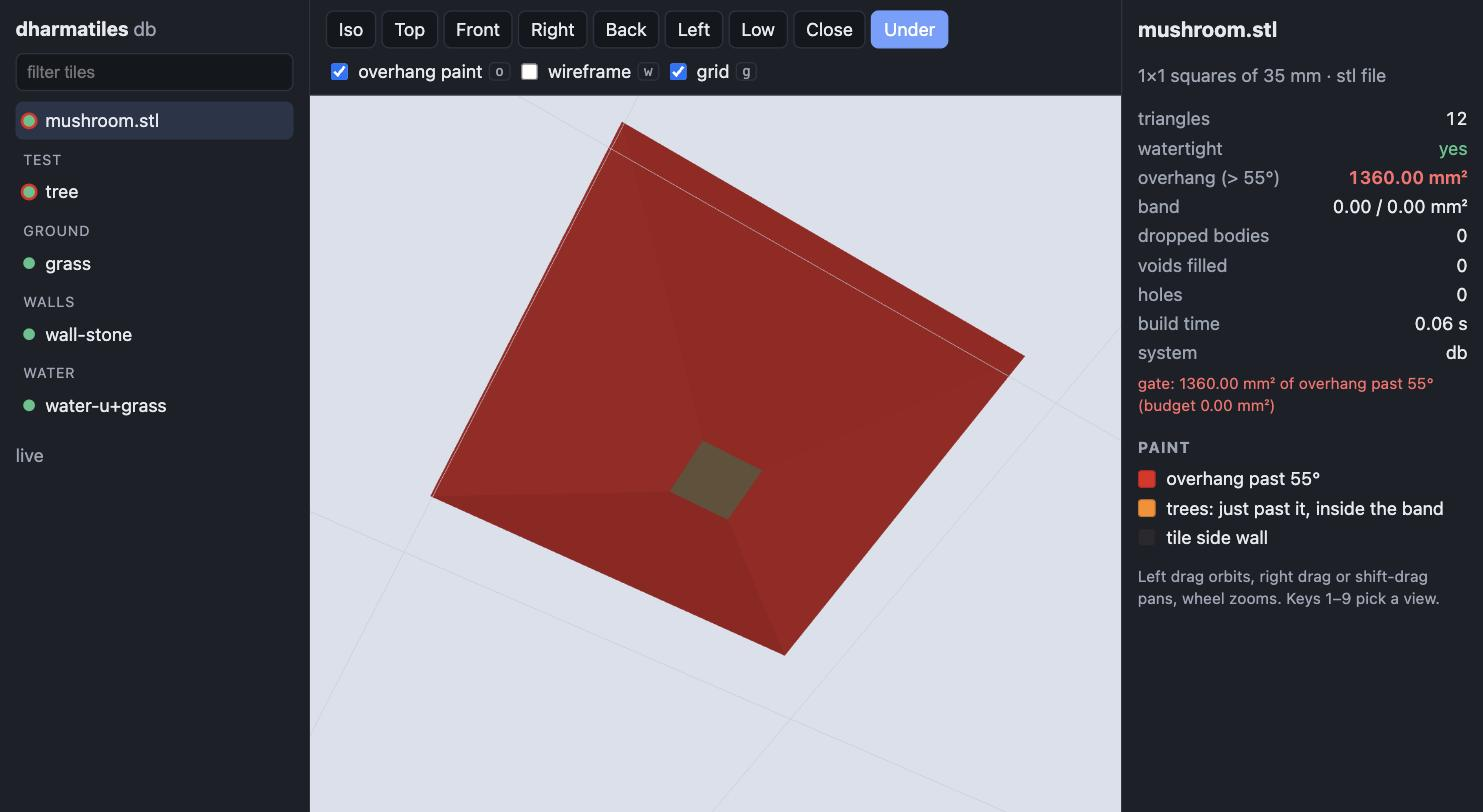
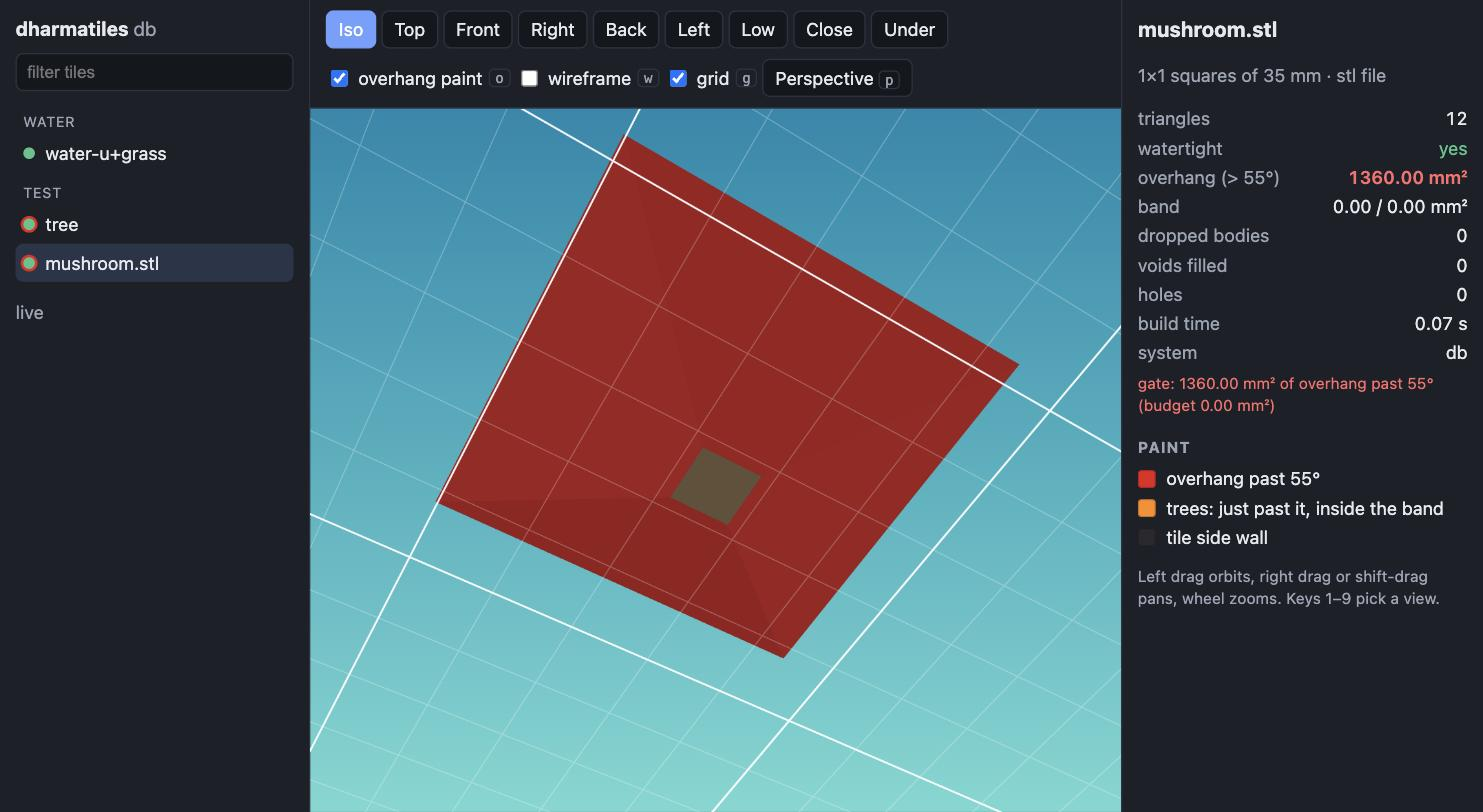
preview: sky background, white fading grid at the tile datum (z=0)

diff --git a/web/preview/js/viewer.js b/web/preview/js/viewer.js
@@ -23,6 +23,26 @@ export const VIEWS = [
 ];
 
 const FOV = 40;
+const GRID_BELOW_MM = 0.02;
+// white lines on the sky: bold at each square, fine at a fifth of one, faded with distance
+const GRID_FRAG = `
+uniform float uSq; uniform vec2 uCentre; uniform float uR0; uniform float uR1;
+varying vec2 vXY;
+float line(float v, float px, float w) {
+  float d = abs(fract(v - 0.5) - 0.5) / px; // distance to the nearest line, in pixels
+  return 1.0 - smoothstep(w - 0.5, w + 0.5, d);
+}
+void main() {
+  vec2 g = vXY / uSq;
+  vec2 px = max(fwidth(g), vec2(1e-5));
+  float major = max(line(g.x, px.x, 1.1), line(g.y, px.y, 1.1));
+  vec2 f = g * 5.0;
+  float minor = max(line(f.x, px.x * 5.0, 0.6), line(f.y, px.y * 5.0, 0.6));
+  float fade = 1.0 - smoothstep(uR0, uR1, distance(vXY, uCentre));
+  float a = max(major * 0.95, minor * 0.28) * fade;
+  if (a < 0.01) discard;
+  gl_FragColor = vec4(1.0, 1.0, 1.0, a);
+}`;
 const NARROW_FOV = 3; // the near-orthographic end of the projection tween
 const easeInOutCubic = (u) => (u < 0.5 ? 4 * u * u * u : 1 - Math.pow(-2 * u + 2, 3) / 2);
 const reduceMotion = () => {
@@ -57,8 +77,8 @@ void main() {
 export class Viewer {
   constructor(canvas) {
     this.canvas = canvas;
-    this.renderer = new THREE.WebGLRenderer({ canvas, antialias: true, preserveDrawingBuffer: true });
-    this.renderer.setClearColor(new THREE.Color(0.85, 0.88, 0.92));
+    this.renderer = new THREE.WebGLRenderer({ canvas, antialias: true, alpha: true, preserveDrawingBuffer: true });
+    this.renderer.setClearColor(0x000000, 0); // the sky is the page's gradient behind the canvas
     this.scene = new THREE.Scene();
     this.persp = new THREE.PerspectiveCamera(FOV, 1, 1, 1000);
     this.ortho = new THREE.OrthographicCamera(-1, 1, 1, -1, 1, 1000);
@@ -291,21 +311,35 @@ export class Viewer {
     return null;
   }
 
-  /** A ground plane under the tile, ruled at the square size (35 mm DungeonBlocks, 25.4 OpenLOCK). */
+  /**
+   * The ground grid, ruled at the square size (35 mm DungeonBlocks, 25.4
+   * OpenLOCK): white lines, bold at every square and fine in between, a
+   * plane at the tile's datum (z = 0, where the base meets the tile body;
+   * an STL has none, so its lowest point) that fades out toward the
+   * horizon.  It is drawn after the tile, without writing depth, a hair
+   * below the datum so it never fights the tile's flat underside.
+   */
   buildGrid() {
-    if (this.grid) { this.scene.remove(this.grid); this.grid.geometry.dispose(); this.grid = null; }
+    if (this.grid) { this.scene.remove(this.grid); this.grid.geometry.dispose(); this.grid.material.dispose(); this.grid = null; }
     const b = this.bounds();
     const sq = this.plan?.square_mm;
     if (!b || !sq) return;
-    const [cols, rows] = [this.plan.cols, this.plan.rows];
-    const z = b.lo[2];
-    const pts = [];
-    const m = 1; // squares of margin
-    for (let i = -m; i <= cols + m; i++) pts.push(i * sq, -m * sq, z, i * sq, (rows + m) * sq, z);
-    for (let j = -m; j <= rows + m; j++) pts.push(-m * sq, j * sq, z, (cols + m) * sq, j * sq, z);
-    const g = new THREE.BufferGeometry();
-    g.setAttribute('position', new THREE.Float32BufferAttribute(pts, 3));
-    this.grid = new THREE.LineSegments(g, new THREE.LineBasicMaterial({ color: new THREE.Color(0.55, 0.6, 0.68) }));
+    const [w, h] = this.plan.size_mm;
+    const z = (this.plan.datum_z ?? b.lo[2]) - GRID_BELOW_MM;
+    const reach = Math.max(w, h) * 6;
+    const mat = new THREE.ShaderMaterial({
+      uniforms: {
+        uSq: { value: sq }, uCentre: { value: new THREE.Vector2(w / 2, h / 2) },
+        uR0: { value: Math.max(w, h) * 1.2 }, uR1: { value: reach * 0.5 },
+      },
+      vertexShader: 'varying vec2 vXY; void main() { vec4 w = modelMatrix * vec4(position, 1.0); vXY = w.xy; gl_Position = projectionMatrix * viewMatrix * w; }',
+      fragmentShader: GRID_FRAG,
+      transparent: true, depthWrite: false, side: THREE.DoubleSide,
+    });
+    this.grid = new THREE.Mesh(new THREE.PlaneGeometry(reach, reach), mat);
+    this.grid.position.set(w / 2, h / 2, z);
+    this.grid.renderOrder = 1;
+    this.grid.frustumCulled = false;
     this.grid.visible = this.showGrid;
     this.scene.add(this.grid);
   }

diff --git a/docs/rust/preview.html b/docs/rust/preview.html
@@ -34,10 +34,12 @@ dharmatiles preview slicer-export.stl             # any binary STL, through the 
 <li><b>Views</b> (keys 1&ndash;9): Iso, Top, Front, Right, Back, Left, Low (to inspect undersides), Close and Under, the contact sheet's views plus the elevations. Orbit with the left button, pan with the right button or shift, zoom with the wheel.</li>
 <li><b>Views turn, they do not cut.</b> Picking a view (1&ndash;9) orbits the camera there in 0.6 to 0.9 s with ease-in-out, along a great circle round the tile, so it reads as the tile turning in space (the longer the turn, the longer it takes). Up stays up through Top and Under. Switching between perspective and orthographic is a dolly-zoom: the lens narrows while the camera backs away, so the tile keeps its size as it flattens. Grab the tile (drag, wheel or touch) at any moment and the animation stops and the controls are yours; picking another view mid-turn starts from where the camera is. With &ldquo;reduce motion&rdquo; set in your system, views cut instantly.</li>
 <li><b>Perspective or orthographic</b> (<kbd>p</kbd>, or the button beside the toggles). Switching keeps the view: the same target, direction and apparent size (the orthographic frustum is taken from the perspective camera's distance and field of view, so the tile does not jump). In orthographic mode the wheel zooms the view, not the distance, and the presets work as before. The choice is remembered in the browser across tiles, rebuilds and reloads.</li>
-<li><b>Toggles:</b> overhang paint (<kbd>o</kbd>), wireframe (<kbd>w</kbd>) and the ground grid (<kbd>g</kbd>), ruled at the square size (35 mm, or 25.4 mm for OpenLOCK).</li>
+<li><b>Toggles:</b> overhang paint (<kbd>o</kbd>), wireframe (<kbd>w</kbd>) and the ground grid (<kbd>g</kbd>).</li>
+<li><b>Sky and grid.</b> The tile stands in a turquoise sky that is deeper at the top and lighter toward the horizon. The ground grid is white, ruled at the square size (35 mm, or 25.4 mm for OpenLOCK), bold at every square and fine in between, and it fades into the sky toward the horizon. It lies at the tile's zero height, <code>z = 0</code>, where the base meets the tile body (for an STL, which has no datum, at the mesh's lowest point), so the base shows below it; it is drawn after the tile without writing depth, so it never fights the tile's flat underside. The PNG renders keep their light grey background.</li>
 <li><b>Build record</b> beside the view: triangles, watertight, overhang mm&sup2;, band against its budget, dropped bodies, voids filled, holes, build time, seed, and any gate failure.</li>
 <li><b>Tile list</b> on the left, with a dot for each tile: grey (not built), amber (building), green (ready), red (failed). A red ring means overhang or band area.</li>
 </ul>
+<figure class="shot"><img src="preview-shots/sky-low.jpg" alt="A water tile from the Low view over the white grid"><figcaption class="small muted">The Low view: the grid sits where the base meets the tile body.</figcaption></figure>
 <figure class="shot"><img src="preview-shots/grass-tree-2x2.jpg" alt="The 2x2 grass and tree tile in the viewer"><figcaption class="small muted">The 2&times;2 grass-and-tree library tile (1.55 million triangles).</figcaption></figure>
 <figure class="shot"><img src="preview-shots/tree.jpg" alt="A tree tile from a low view"><figcaption class="small muted">The tree test tile from the Low view, with its build record.</figcaption></figure>
 

diff --git a/web/preview/style.css b/web/preview/style.css
@@ -1,7 +1,7 @@
 :root {
   --bg: #f3f4f6; --panel: #ffffff; --ink: #1d2330; --muted: #667085; --line: #d9dde5;
   --accent: #2f6fdb; --ok: #2e8b57; --warn: #d98a00; --bad: #d12d2d;
-  --canvas: #d9e0eb;
+  --sky-top: #0788ad; --sky-low: #6fd8d2;
 }
 @media (prefers-color-scheme: dark) {
   :root:not([data-theme="light"]) {
@@ -41,7 +41,7 @@ button.view:hover { border-color: var(--accent); }
 button.view.on { background: var(--accent); color: #fff; border-color: var(--accent); }
 .toggle { display: inline-flex; gap: 5px; align-items: center; cursor: pointer; user-select: none; }
 kbd { font: 11px ui-monospace, monospace; border: 1px solid var(--line); border-radius: 4px; padding: 0 4px; color: var(--muted); }
-#canvas-wrap { position: relative; flex: 1; min-height: 0; background: var(--canvas); }
+#canvas-wrap { position: relative; flex: 1; min-height: 0; background: linear-gradient(to bottom, var(--sky-top), var(--sky-low)); }
 #canvas { position: absolute; inset: 0; width: 100%; height: 100%; display: block; }
 #status { position: absolute; top: 10px; left: 10px; background: var(--panel); color: var(--ink); border: 1px solid var(--line); border-radius: 999px; padding: 4px 12px; box-shadow: 0 1px 4px #0002; }
 #status { display: flex; align-items: center; gap: 10px; border-radius: 10px; min-width: 260px; }
@@ -52,7 +52,7 @@ kbd { font: 11px ui-monospace, monospace; border: 1px solid var(--line); border-
 #errors .e { margin: 0 0 8px; } #errors .e:last-child { margin: 0; }
 #errors .where { font: 12px ui-monospace, monospace; color: var(--bad); }
 #errors .help { color: var(--muted); font-size: 12px; }
-#empty { position: absolute; inset: 0; display: grid; place-items: center; color: var(--muted); pointer-events: none; }
+#empty { position: absolute; inset: 0; display: grid; place-items: center; color: #fff; text-shadow: 0 1px 3px #0006; pointer-events: none; }
 dl { display: grid; grid-template-columns: auto 1fr; gap: 3px 12px; margin: 10px 0 0; }
 dt { color: var(--muted); } dd { margin: 0; text-align: right; font-variant-numeric: tabular-nums; }
 dd.bad { color: var(--bad); font-weight: 600; } dd.ok { color: var(--ok); }

diff --git a/crates/dharmatiles/src/preview/mod.rs b/crates/dharmatiles/src/preview/mod.rs
@@ -261,6 +261,8 @@ fn rebuild(shared: &Arc<Shared>, i: usize, opts: &Options) {
         json!({
             "tile": t.name, "cols": t.cols, "rows": t.rows,
             "square_mm": frame.square_mm, "size_mm": [w, h],
+            // the tile's zero height: where the base meets the tile body
+            "datum_z": 0.0,
             "stack": t.stack.iter().map(|e| e.what.value.clone()).collect::<Vec<_>>(),
         })
     });
@@ -376,7 +378,7 @@ fn rebuild_stl(shared: &Shared, i: usize, opts: &Options, path: &str) {
     let n = |v: f64| (libm::round(v / sq).max(1.0)) as u32;
     let plan = json!({
         "tile": path.rsplit('/').next().unwrap_or(path), "cols": n(footprint[0]), "rows": n(footprint[1]),
-        "square_mm": sq, "size_mm": footprint, "stack": ["stl file"],
+        "square_mm": sq, "size_mm": footprint, "datum_z": Value::Null, "stack": ["stl file"],
     });
     let record = json!({
         "record": {"seed": Value::Null, "system": opts.system},
